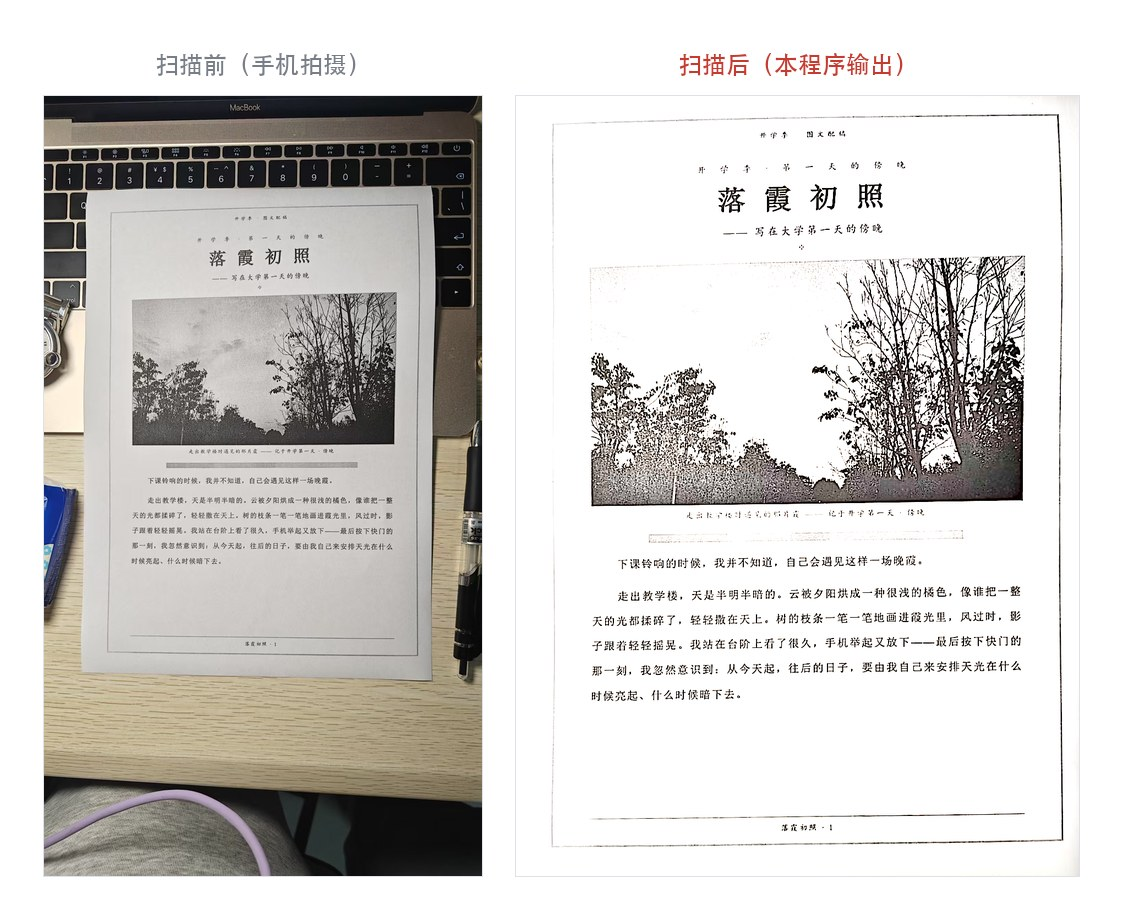
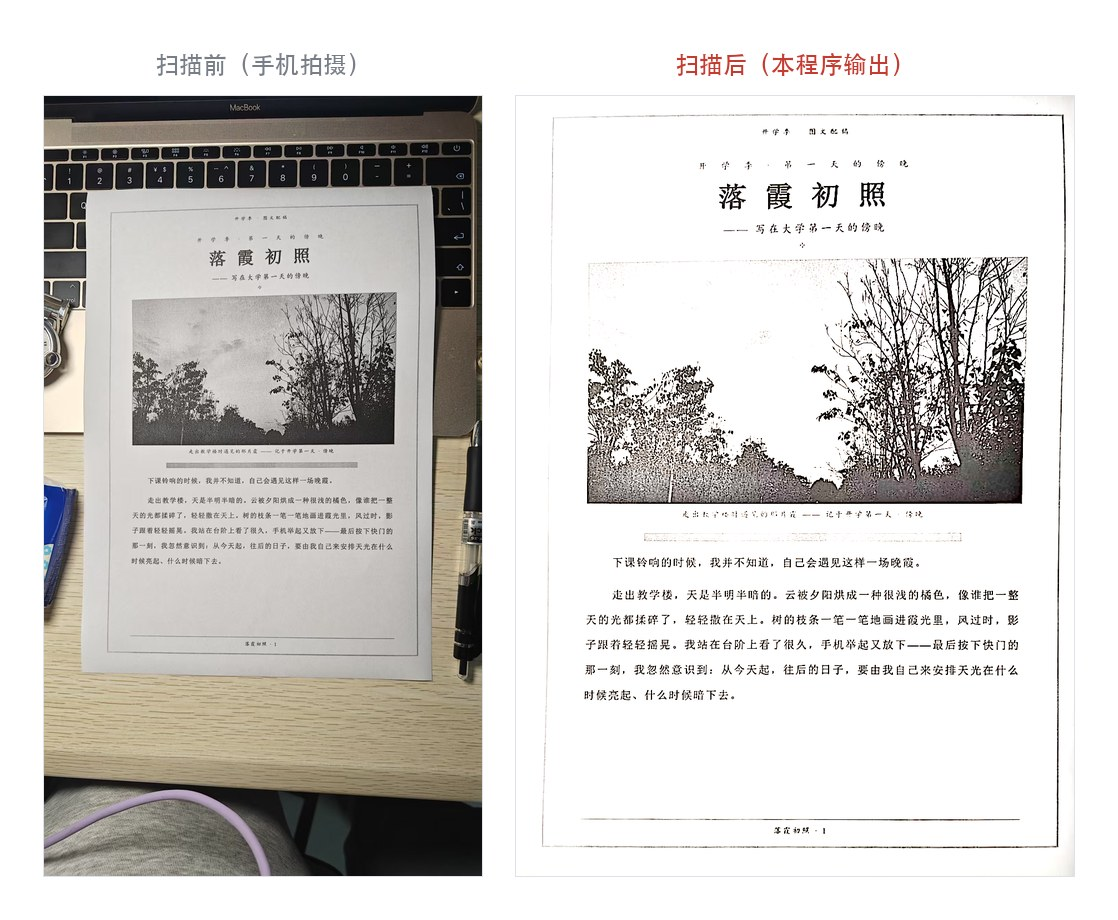
fix: 纠偏默认阈值 1.15 → 1.02（此前会漏掉真实倾斜）
问题
----
三个测试样本里有两个的投影方差提升只有 1.03~1.04x，低于 1.15 的默认阈值，
于是纠偏被判定为「没有行结构」而**静默跳过**，输出带着 0.8°~1.5° 的倾斜：

    样本          阈值 1.15        阈值 1.02
    英语作文(新)   +1.475°          +0.000°
    落霞文档       −0.775°          +0.000°
    旧作业照       +0.000°          +0.000°

修复
----
默认阈值降到 1.02。纠偏本身带自检（纠正后重测，变差就回退），
放宽阈值是安全的；而 1.15 会让轻微但真实的倾斜被漏掉。

同时替换 README 演示图中的手写英语作文素材，并用修复后的引擎重新生成扫描件。

diff --git a/src/scan.swift b/src/scan.swift
@@ -709,7 +709,10 @@ struct Opts {
     var bw = false
     var flatten = true
     var doDeskew = true
-    var minGain = 1.15
+    // 默认 1.02。曾经用 1.15，但那会导致真实的轻微倾斜被误判成「没有行结构」
+    // 而跳过纠偏（实测三个样本里有两个 gain 只有 1.03~1.04）。
+    // 纠偏本身带自检（纠正后重测，变差就回退），所以放宽是安全的。
+    var minGain = 1.02
 }
 
 /// 处理单张照片的完整流程。批处理模式会反复调用它。
@@ -750,7 +753,7 @@ func parseOpts(_ a: [String], from: Int) -> (Opts, String?, String?)? {
         case "--rot":       i += 1; if i < a.count { o.rot = a[i] }
         case "--pdf":       i += 1; if i < a.count { pdf = a[i] }
         case "--inset":     i += 1; if i < a.count { o.insetPx = CGFloat(Double(a[i]) ?? 8) }
-        case "--skewgain":  i += 1; if i < a.count { o.minGain = Double(a[i]) ?? 1.15 }
+        case "--skewgain":  i += 1; if i < a.count { o.minGain = Double(a[i]) ?? 1.02 }
         default:
             if out == nil { out = a[i] } else { log("unexpected arg \(a[i])"); return nil }
         }
@@ -790,7 +793,7 @@ if mode == "batch" {
         case "--nodeskew":  o.doDeskew = false
         case "--rot":       i += 1; if i < a.count { o.rot = a[i] }
         case "--inset":     i += 1; if i < a.count { o.insetPx = CGFloat(Double(a[i]) ?? 8) }
-        case "--skewgain":  i += 1; if i < a.count { o.minGain = Double(a[i]) ?? 1.15 }
+        case "--skewgain":  i += 1; if i < a.count { o.minGain = Double(a[i]) ?? 1.02 }
         default:            files.append(a[i])
         }
         i += 1

diff --git a/技术文档.md b/技术文档.md
@@ -135,7 +135,8 @@
 
 **两个保守设计**（宁可不做，也不乱做）：
 - `|角度| < 0.05°` 不动手，避免无意义的两次重采样
-- 方差提升不足 1.15 倍不动手——说明这张图压根没有规则的行结构，硬转只会转坏
+- 方差提升不足 1.02 倍不动手——说明这张图压根没有规则的行结构，硬转只会转坏
+  （该值曾经设为 1.15，但实测偏严：三个样本里两个的真实倾斜被误判跳过）
 
 **纠偏后**按**内接矩形**裁掉旋转产生的白角：
 
@@ -332,7 +333,7 @@ xattr -dr com.apple.quarantine /path/to/photo-to-scan.app
 |---|---|---|
 | `--rot auto\|cw\|ccw\|0\|180` | `auto` | 强制旋转方向。自动判断失败时手动指定 |
 | `--nodeskew` | 关 | 关闭自动纠偏 |
-| `--skewgain N` | `1.15` | 纠偏生效阈值：投影方差至少提升 N 倍才动手 |
+| `--skewgain N` | `1.02` | 纠偏生效阈值：投影方差至少提升 N 倍才动手 |
 | `--noflatten` | 关 | 关闭去阴影/增白（照片光照本就很均匀时用） |
 | `--bw` | 关 | 输出灰度高对比版本（红格线会变灰，一般不用） |
 | `--inset N` | `8` | 四边内缩像素，去掉边缘残留的桌面颜色 |
@@ -384,7 +385,7 @@ xattr -dr com.apple.quarantine /path/to/photo-to-scan.app
 | 现象 | 原因与处理 |
 |---|---|
 | 方向转错了 | `--rot cw` 或 `--rot ccw` 手动指定 |
-| 格线还是歪的 | 看日志里 `deskew:` 行。若 `variance gain < 1.15` 说明没找到明显行结构，可加 `--skewgain 1.02` |
+| 格线还是歪的 | 看日志里 `deskew:` 行。若 `variance gain < 1.02` 说明确实没有行结构 |
 | 纸面发灰、有阴影 | 检查是否误加了 `--noflatten`（默认应是开启的） |
 | **裁掉了正文** | 纸张检测偏了。看日志 `quad source:` 是 `printed frame` 还是 `Vision document segmentation` |
 | 单张特别慢 | 正常（模型加载）。改用 `batch` |

diff --git a/README.md b/README.md
@@ -90,7 +90,7 @@ open photo-to-scan.app
 |---|---|---|
 | `--rot auto\|cw\|ccw\|0\|180` | `auto` | 旋转方向。`auto` 用投影方差比判断横竖，用「红色抬头在顶部」判断 0/180 与 cw/ccw |
 | `--nodeskew` | 关 | 关闭自动纠偏 |
-| `--skewgain N` | `1.15` | 纠偏生效阈值：投影方差至少提升 N 倍才动手 |
+| `--skewgain N` | `1.02` | 纠偏生效阈值：投影方差至少提升 N 倍才动手 |
 | `--noflatten` | 关 | 关闭去阴影/增白（照片光照本就很均匀时用） |
 | `--bw` | 关 | 输出灰度高对比版本（红格线会变灰） |
 | `--inset N` | `8` | 四边内缩像素，去掉照片边缘残留的桌面颜色 |
@@ -142,7 +142,7 @@ python3 tools/measure.py 成品.png
 | 现象 | 处理 |
 |---|---|
 | 方向转错 | `--rot cw` / `--rot ccw` 手动指定 |
-| 格线还是歪 | 看日志 `deskew:` 行；若 `variance gain < 1.15` 说明没有明显行结构，可加 `--skewgain 1.02` |
+| 格线还是歪 | 看日志 `deskew:` 行；若 `variance gain < 1.02` 说明确实没有行结构 |
 | 纸面发灰 | 检查是否误加了 `--noflatten` |
 | 裁掉了正文 | 纸张检测偏了，看日志 `quad source:` 是 `printed frame` 还是 `Vision document segmentation` |
 | 单张特别慢 | 正常（模型加载）。改用 `batch` |
